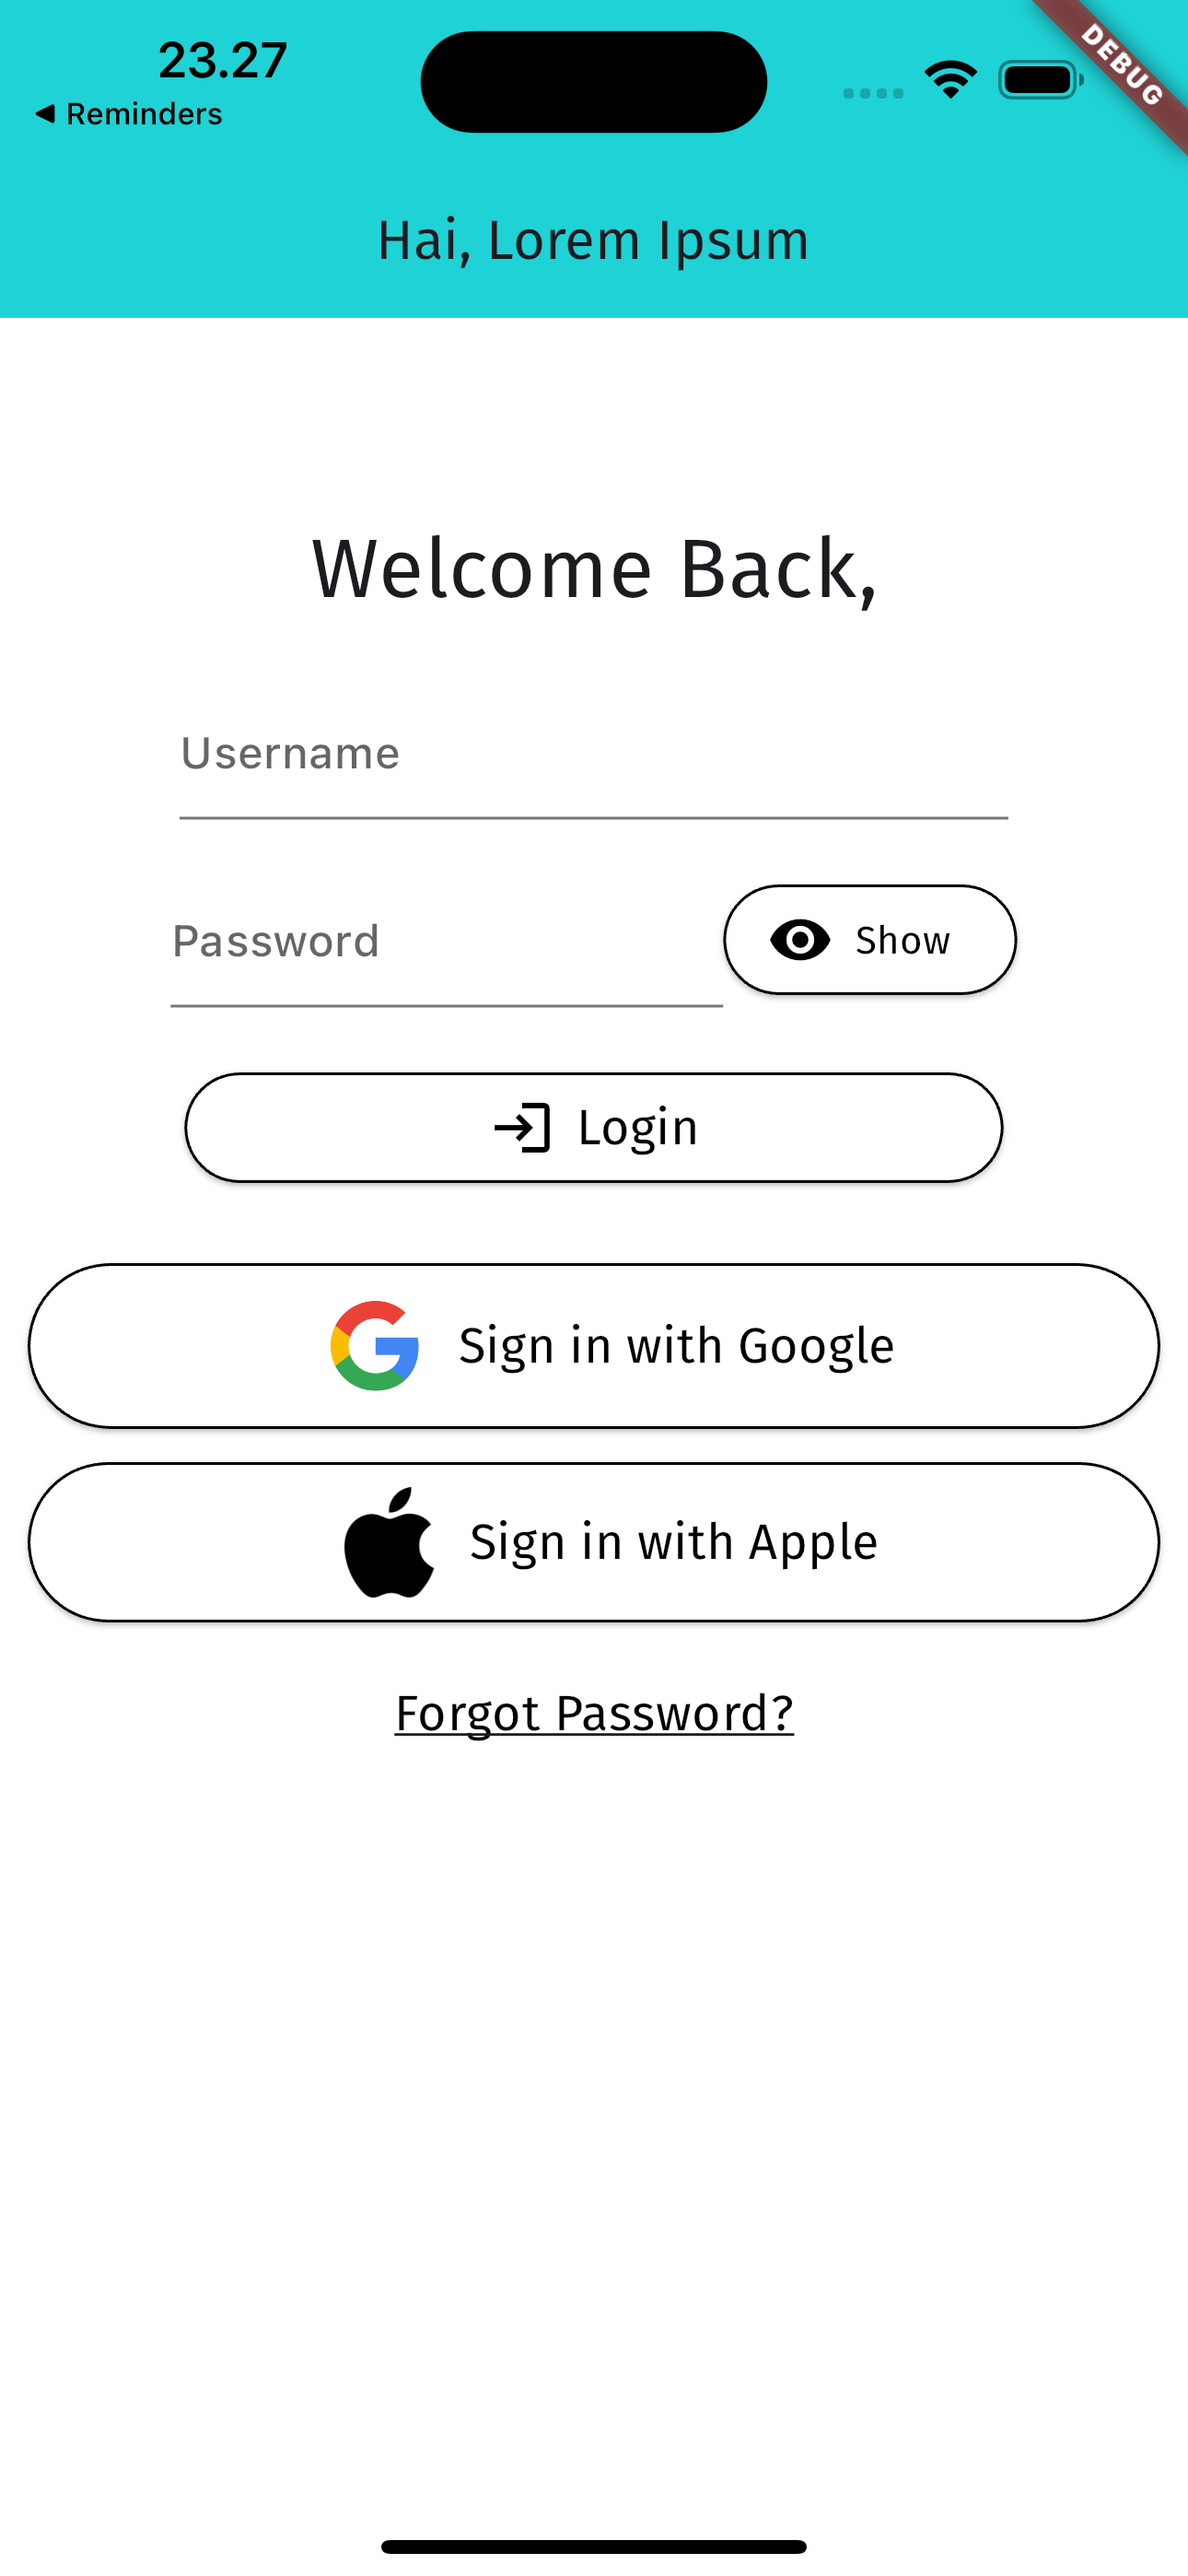
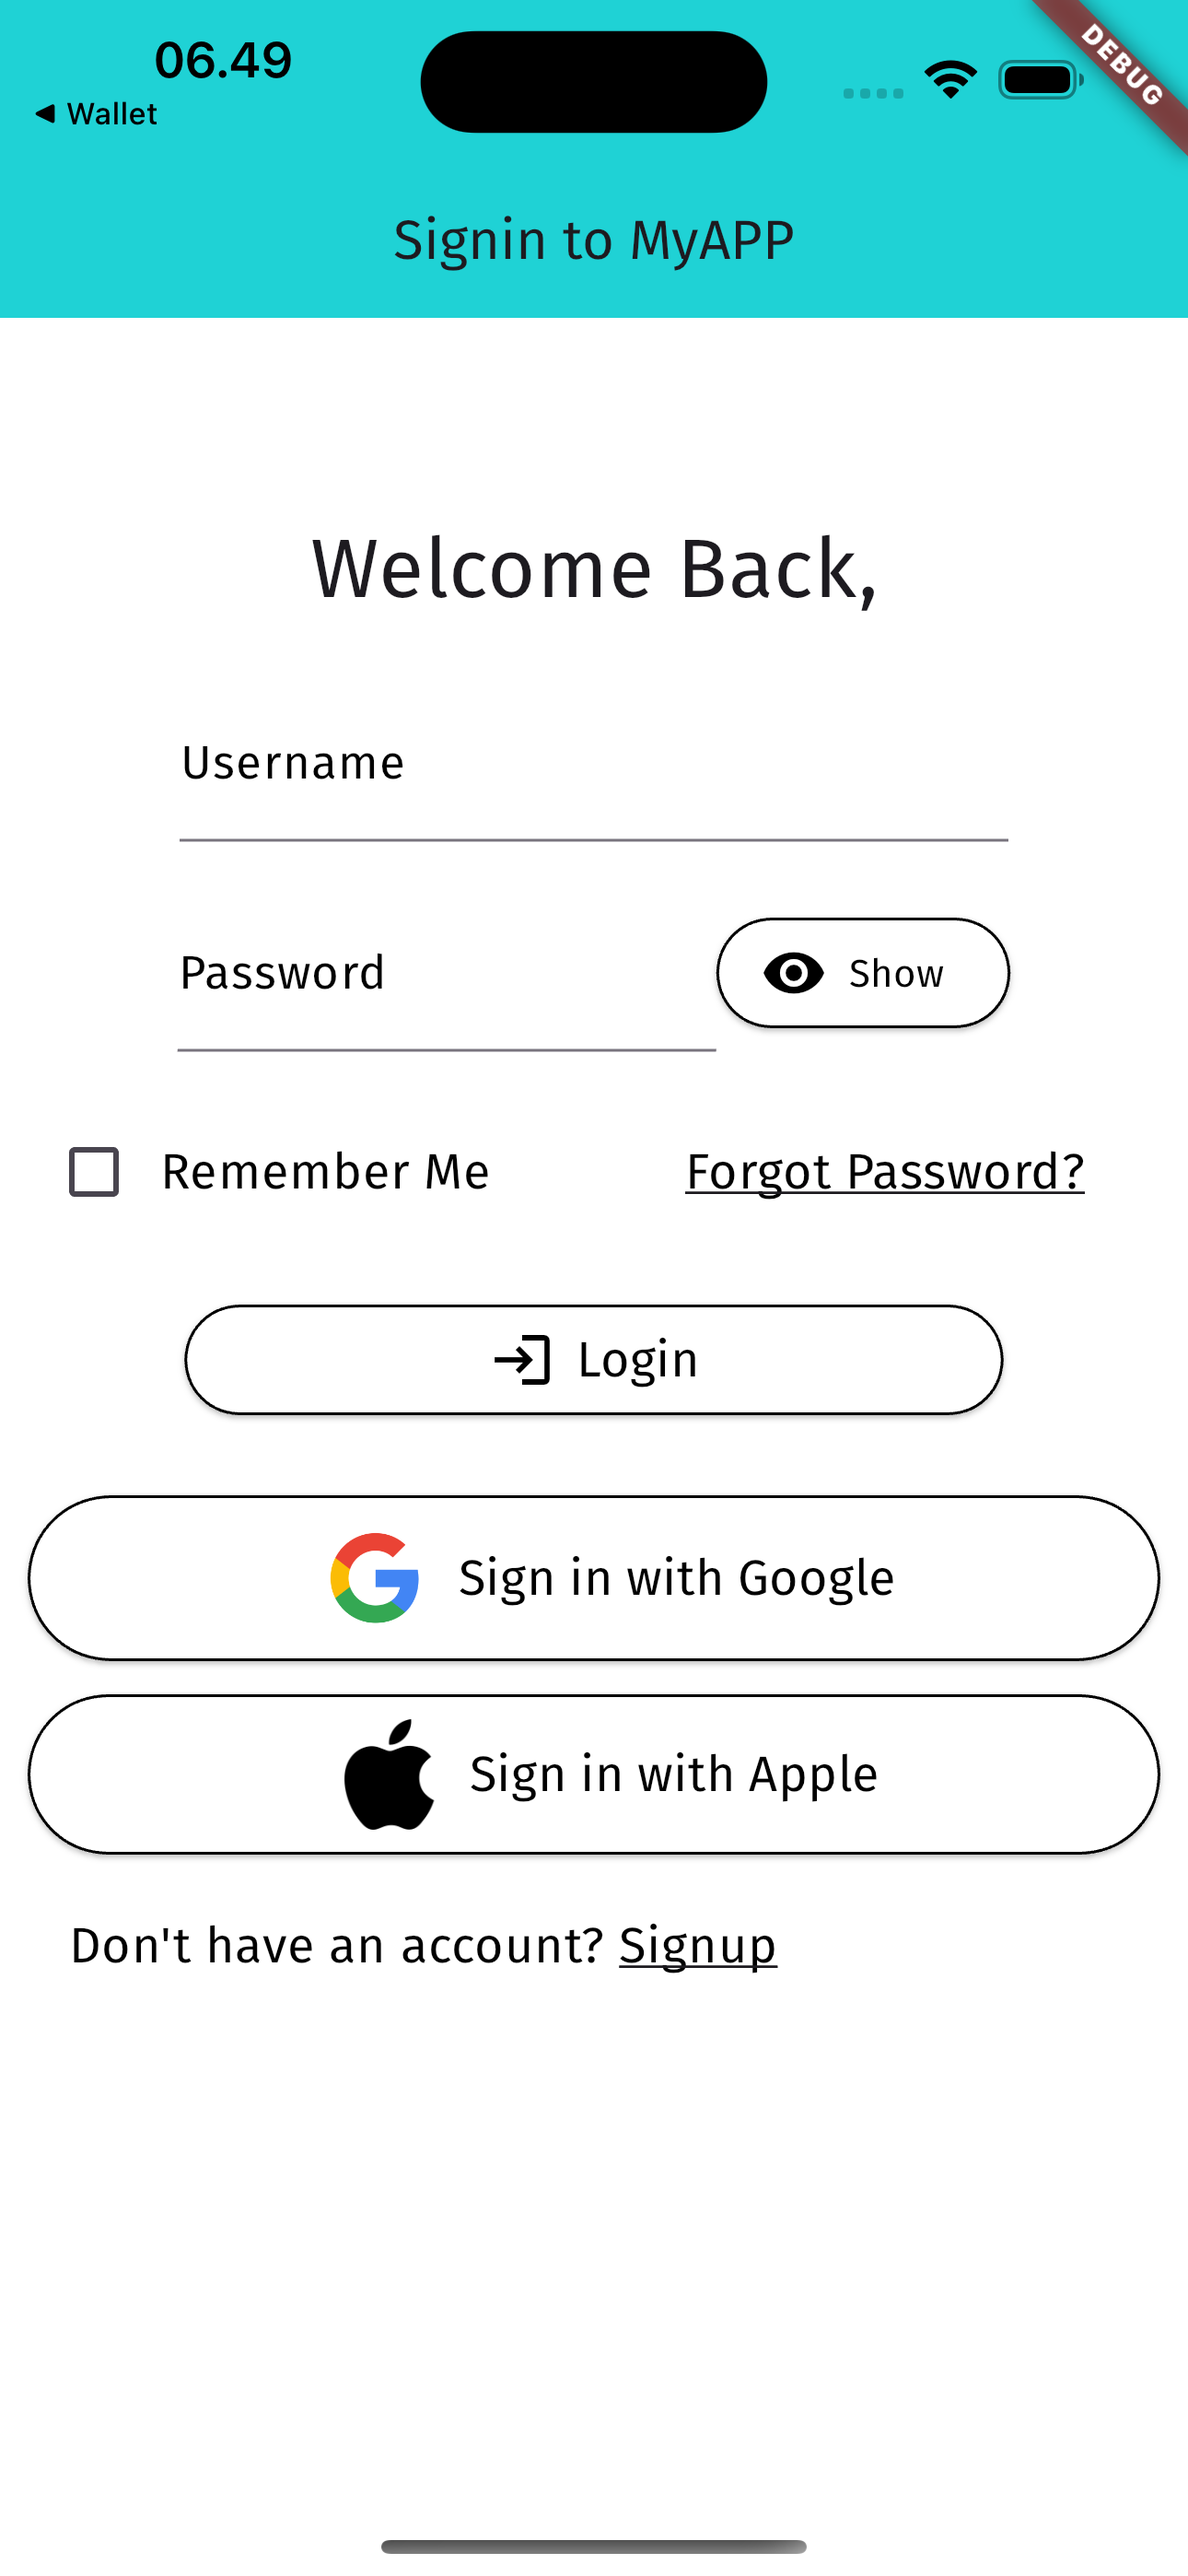
Add toggle remember me

diff --git a/main.dart b/main.dart
@@ -25,9 +25,16 @@ class MyWidget extends StatefulWidget {
 
 class _MyWidgetState extends State<MyWidget> {
   bool passwordVisibility = false;
+  bool rememberMe = false;
   void togglePasswordVisibility() {
     setState(() {
       passwordVisibility = !passwordVisibility;
+    });
+  }
+
+  void toggleRememberMe(bool? value) {
+    setState(() {
+      rememberMe = value ?? false;
     });
   }
 
@@ -35,7 +42,7 @@ class _MyWidgetState extends State<MyWidget> {
   Widget build(BuildContext context) {
     return Scaffold(
         appBar: AppBar(
-            title: Text('Hai, Lorem Ipsum',
+            title: Text('Signin to MyAPP',
                 style: GoogleFonts.firaSans(fontSize: 20)),
             backgroundColor: const Color.fromARGB(255, 31, 210, 213)),
         body: Container(
@@ -58,11 +65,17 @@ class _MyWidgetState extends State<MyWidget> {
                             fontSize: 30, fontWeight: FontWeight.normal),
                       ),
                       const SizedBox(height: 20),
-                      const SizedBox(
+                      SizedBox(
                         width: 300,
                         child: TextField(
                           // textAlign: TextAlign.center,
-                          decoration: InputDecoration(hintText: 'Username'),
+                          decoration: InputDecoration(
+                            label: Text(
+                              'Username',
+                              style: GoogleFonts.firaSans(
+                                  color: Colors.black, fontSize: 17),
+                            ),
+                          ),
                         ),
                       ),
                       const SizedBox(height: 20),
@@ -71,12 +84,16 @@ class _MyWidgetState extends State<MyWidget> {
                           mainAxisAlignment: MainAxisAlignment.center,
                           children: [
                             SizedBox(
-                              width: 200,
+                              width: 195,
                               child: TextField(
-                                // textAlign: TextAlign.center,
-                                decoration:
-                                    const InputDecoration(hintText: 'Password'),
-                                obscureText: !passwordVisibility,
+                                obscureText: passwordVisibility,
+                                decoration: InputDecoration(
+                                  label: Text(
+                                    'Password',
+                                    style: GoogleFonts.firaSans(
+                                        color: Colors.black, fontSize: 17),
+                                  ),
+                                ),
                               ),
                             ),
                             ElevatedButton.icon(
@@ -98,6 +115,32 @@ class _MyWidgetState extends State<MyWidget> {
                         ),
                       ),
                       const SizedBox(height: 20),
+                      Row(
+                        // mainAxisAlignment: MainAxisAlignment.end,
+                        children: [
+                          Checkbox(
+                              value: rememberMe, onChanged: toggleRememberMe),
+                          Text(
+                            'Remember Me',
+                            style: GoogleFonts.firaSans(
+                                color: Colors.black, fontSize: 18),
+                          ),
+                          const SizedBox(
+                            width: 70,
+                          ),
+                          GestureDetector(
+                            onTap: () {},
+                            child: Text(
+                              'Forgot Password?',
+                              style: GoogleFonts.firaSans(
+                                  color: Colors.black,
+                                  fontSize: 18,
+                                  decoration: TextDecoration.underline),
+                            ),
+                          ),
+                        ],
+                      ),
+                      const SizedBox(height: 20),
                       ElevatedButton.icon(
                         style: ElevatedButton.styleFrom(
                             iconColor: Colors.black,
@@ -109,7 +152,9 @@ class _MyWidgetState extends State<MyWidget> {
                         label: Text(
                           'Login',
                           style: GoogleFonts.firaSans(
-                              color: Colors.black, fontSize: 18),
+                            color: Colors.black,
+                            fontSize: 18,
+                          ),
                         ),
                         icon: const Icon(Icons.login),
                       ),
@@ -162,22 +207,32 @@ class _MyWidgetState extends State<MyWidget> {
                         ),
                       ),
                       const SizedBox(height: 20),
-                      Center(
-                        child: GestureDetector(
-                          onTap: () {},
-                          child: Text(
-                            'Forgot Password?',
-                            style: GoogleFonts.firaSans(
-                                color: Colors.black,
-                                fontSize: 18,
-                                decoration: TextDecoration.underline),
-                          ),
+                      Container(
+                        child: Row(
+                          children: [
+                            SizedBox(
+                              width: 15,
+                            ),
+                            Text(
+                              "Don't have an account?",
+                              style: GoogleFonts.firaSans(
+                                  color: Colors.black, fontSize: 18),
+                            ),
+                            SizedBox(width: 5),
+                            Text(
+                              "Signup",
+                              style: GoogleFonts.firaSans(
+                                  color: Colors.black,
+                                  fontSize: 18,
+                                  decoration: TextDecoration.underline),
+                            ),
+                          ],
                         ),
                       ),
                     ],
                   ),
                 ),
-              )
+              ),
             ],
           ),
         ));
